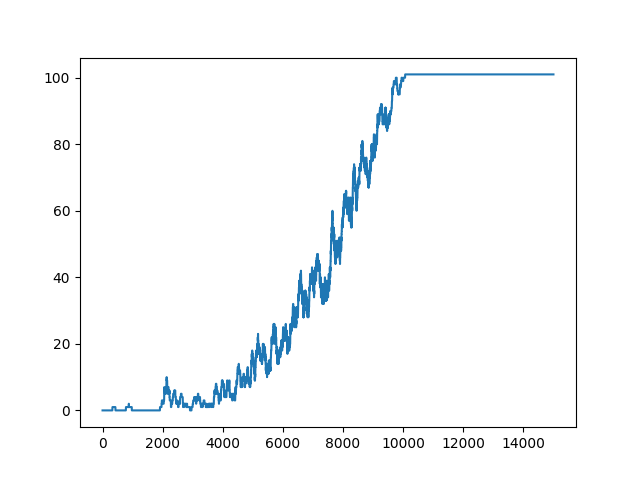
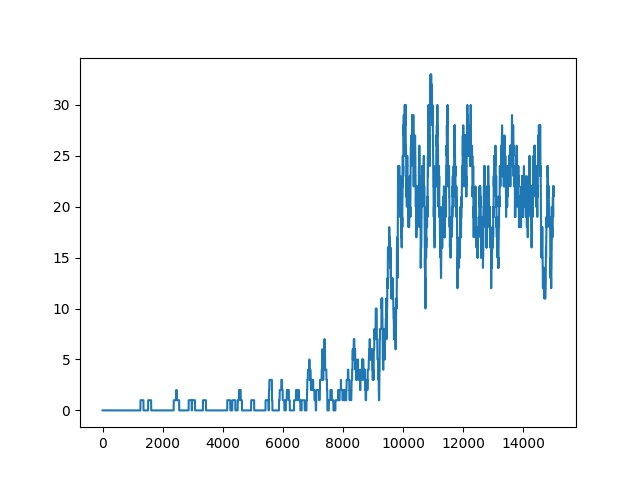
enable render

diff --git a/frozen_lake.py b/frozen_lake.py
@@ -3,10 +3,15 @@ import numpy as np
 import matplotlib.pyplot as plt
 import pickle 
 
-def run(episodes, render=False):
-    env = gym.make('FrozenLake-v1', map_name="8x8", is_slippery=False, render_mode='human' if render else None)
+def run(episodes,is_training=True, render=False):
+    env = gym.make('FrozenLake-v1', map_name="8x8", is_slippery=True, render_mode='human' if render else None)
 
-    q = np.zeros((env.observation_space.n,env.action_space.n))
+    if(is_training):
+        q = np.zeros((env.observation_space.n,env.action_space.n)) # create a q array of 64x4 grid
+    else:
+        f = open('frozen_lake8x8.pkl','rb')
+        q = pickle.load(f)
+        f.close()
 
     learning_rate_a = 0.9 #alpha or learning rate
     discount_factor_g = 0.9 # gamma or discount factor
@@ -24,12 +29,13 @@ def run(episodes, render=False):
 
 
         while (not terminated and not truncated):
-            if rng.random() <epsilon:
+            if is_training and rng.random() <epsilon:
                 action = env.action_space.sample() #actions: 0-left 1-down 2-right 3-up
             else:
-                action = np.argmax(q[state,:])
+                action = np.argmax(q[state,:]) # Returns the position of max q value in the row
 
-            new_state,reward,terminated,truncated,_ = env.step(action)
+            # Executing the action decided and returns the new state and parameters like reward, terminated, truncated
+            new_state,reward,terminated,truncated,_ = env.step(action) 
 
             q[state,action] = q[state,action] + learning_rate_a * ( 
                 reward + discount_factor_g * np.max(q[new_state,:]) - q[state,action]
@@ -37,7 +43,7 @@ def run(episodes, render=False):
             state = new_state
 
 
-        epsilon = max(epsilon - epsilon_decay_rate, 0)
+        epsilon = max(epsilon - epsilon_decay_rate, 0) # Updating epsilon and ensuring it stays positive
 
         if (epsilon==0):
             learning_rate_a = 0.0001
@@ -53,11 +59,12 @@ def run(episodes, render=False):
     plt.plot(sum_rewards)
     plt.savefig('frozen_lake8x8.png')
 
-    f = open("frozen_lake8x8.pkl","wb")
-    pickle.dump(q,f)
-    f.close()
+    if is_training:
+        f = open("frozen_lake8x8.pkl","wb")
+        pickle.dump(q,f)
+        f.close()
 
 
 
 if __name__ == '__main__':
-    run(15000)
+    run(15000, is_training=False, render=True)
